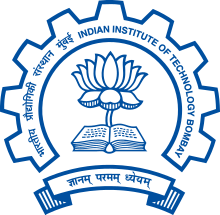
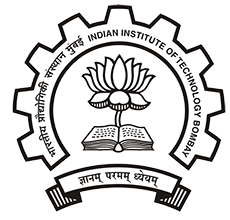
message

diff --git a/index.html b/index.html
@@ -362,7 +362,7 @@
             <div class="row">
               <div class="col s2 m2">
                 <a href="https://new.e-yantra.org/" target="_blank"><img alt="IIT logo"
-                    src="/assets/img/iitb.jpg" class="responsive-img left-block" /></a>
+                    src="/assets/img/iitb.png" class="responsive-img left-block" /></a>
               </div>
               <div class="col s1 m10">
                 <p>
